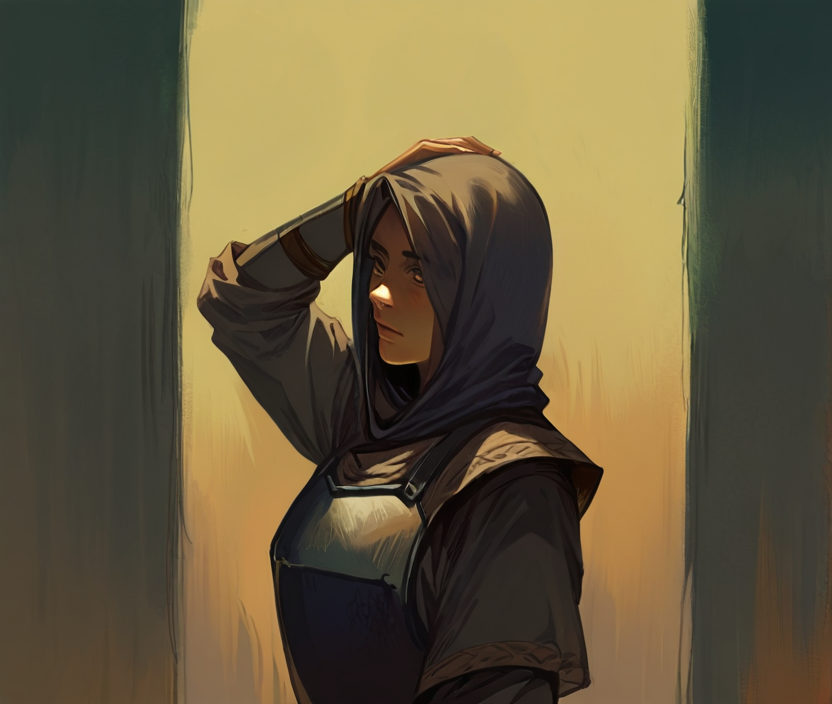
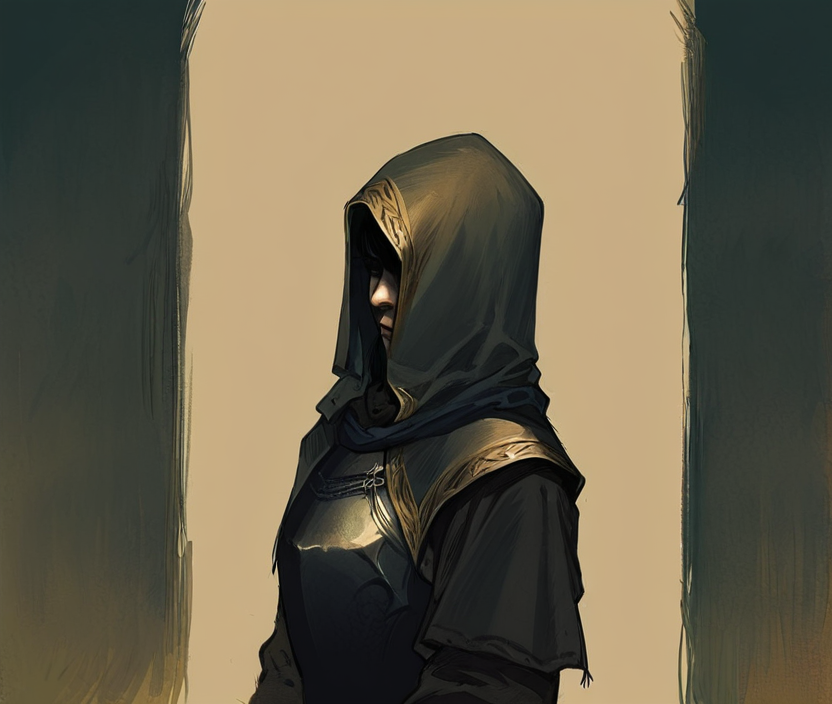
feat: 卡面最后一轮修正——13 张「只会画符号」的卡（终结技/重压/乱击/虚弱打击/痛觉/破防斩/断掌/盾击/铁壁冲撞/坚壁/拒马/壁垒/重甲）全部改成明确的身体姿态后重出；修正表累计 38 条

diff --git a/tools/card_subjects_v4_fix.py b/tools/card_subjects_v4_fix.py
@@ -31,4 +31,17 @@ FIXES = {
     "壁垒": "carrying a timber beam to a barricade, a sergeant on a muddy road",
     "死守": "crouching behind a chained round shield, a guard in a gatehouse",
     "毒潮": "pouring green liquid from a jar onto the floor, a cultist in a dim cellar",
+    "终结技": "swinging an oversized blade down with both hands, a champion in a torch-lit arena",
+    "重压": "pushing down on a huge stone block with both arms, a prisoner in a mine",
+    "乱击": "throwing a bundle of short spears with one arm, a berserker on a battlefield",
+    "虚弱打击": "throwing a weak punch with raw knuckles, a bruised fighter in a torch-lit pit",
+    "痛觉": "driving a spiked glove into his own palm, a monk kneeling in a bare chapel",
+    "破防斩": "carving a deep notch into a raised shield, a swordsman in a corridor",
+    "断掌": "staring down at his own gauntlet hand on the ground, a man kneeling in a bare room",
+    "盾击": "driving a shield boss forward into the viewer, a shield-bearer in a corridor",
+    "铁壁冲撞": "charging shoulder-first behind a raised shield, a heavy knight in a gatehouse",
+    "坚壁": "lifting a fitted stone block into a wall with both arms, a mason on a rampart",
+    "拒马": "bending down to drive an iron caltrop into the road, a sapper at a checkpoint",
+    "壁垒": "hoisting a timber beam onto a barricade with both arms, a sergeant on a muddy road",
+    "重甲": "lowering a thick iron breastplate over his head, a knight in an armory",
 }
